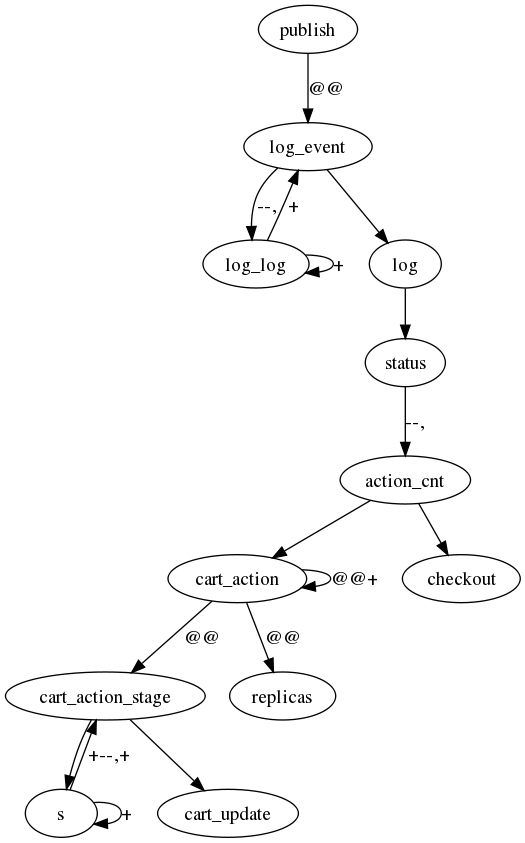
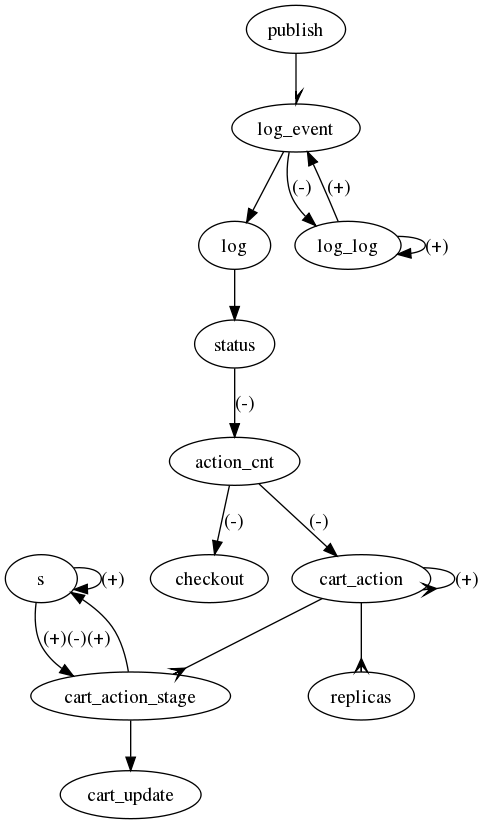
pictura
Former-commit-id: 947b35e23b770c79e13440082fa6cc4a902cb8d4
Former-commit-id: 97129da66fd6d8df6eec48b03d24bbc42b53c38b

diff --git a/popl11/casestudy.tex b/popl11/casestudy.tex
@@ -53,13 +53,24 @@ and reason about the degree to which it is ``eventually consistent.''
 
 
 \subsection{Straw Man}
-these are hideous looking at this time.
+
+What's missing: draw a bold line every place where you see a (-) (negation or aggregation)
+or a half-arrow(unguarded asynchrony).  these are the global stratum boundaries, at which
+we must either coordinate or commit to a defeasible conclusion to proceed.
+crow's feet indicate persistence-guarded asynchrony.  though crow's feet dependencies
+may cross network boundaries, they are intra-stratum.
 
 straw man:
 
 
-\includegraphics[width=0.9\linewidth]{vizza_straw.png}
+\includegraphics[width=0.65\linewidth]{vizza_straw.png}
 
+
+
+wooden man (straw instrumented with a queue to handle 'coincidence'):
+
+
+\includegraphics[width=1.2\linewidth]{vizza_wood.png}
 
 
 
